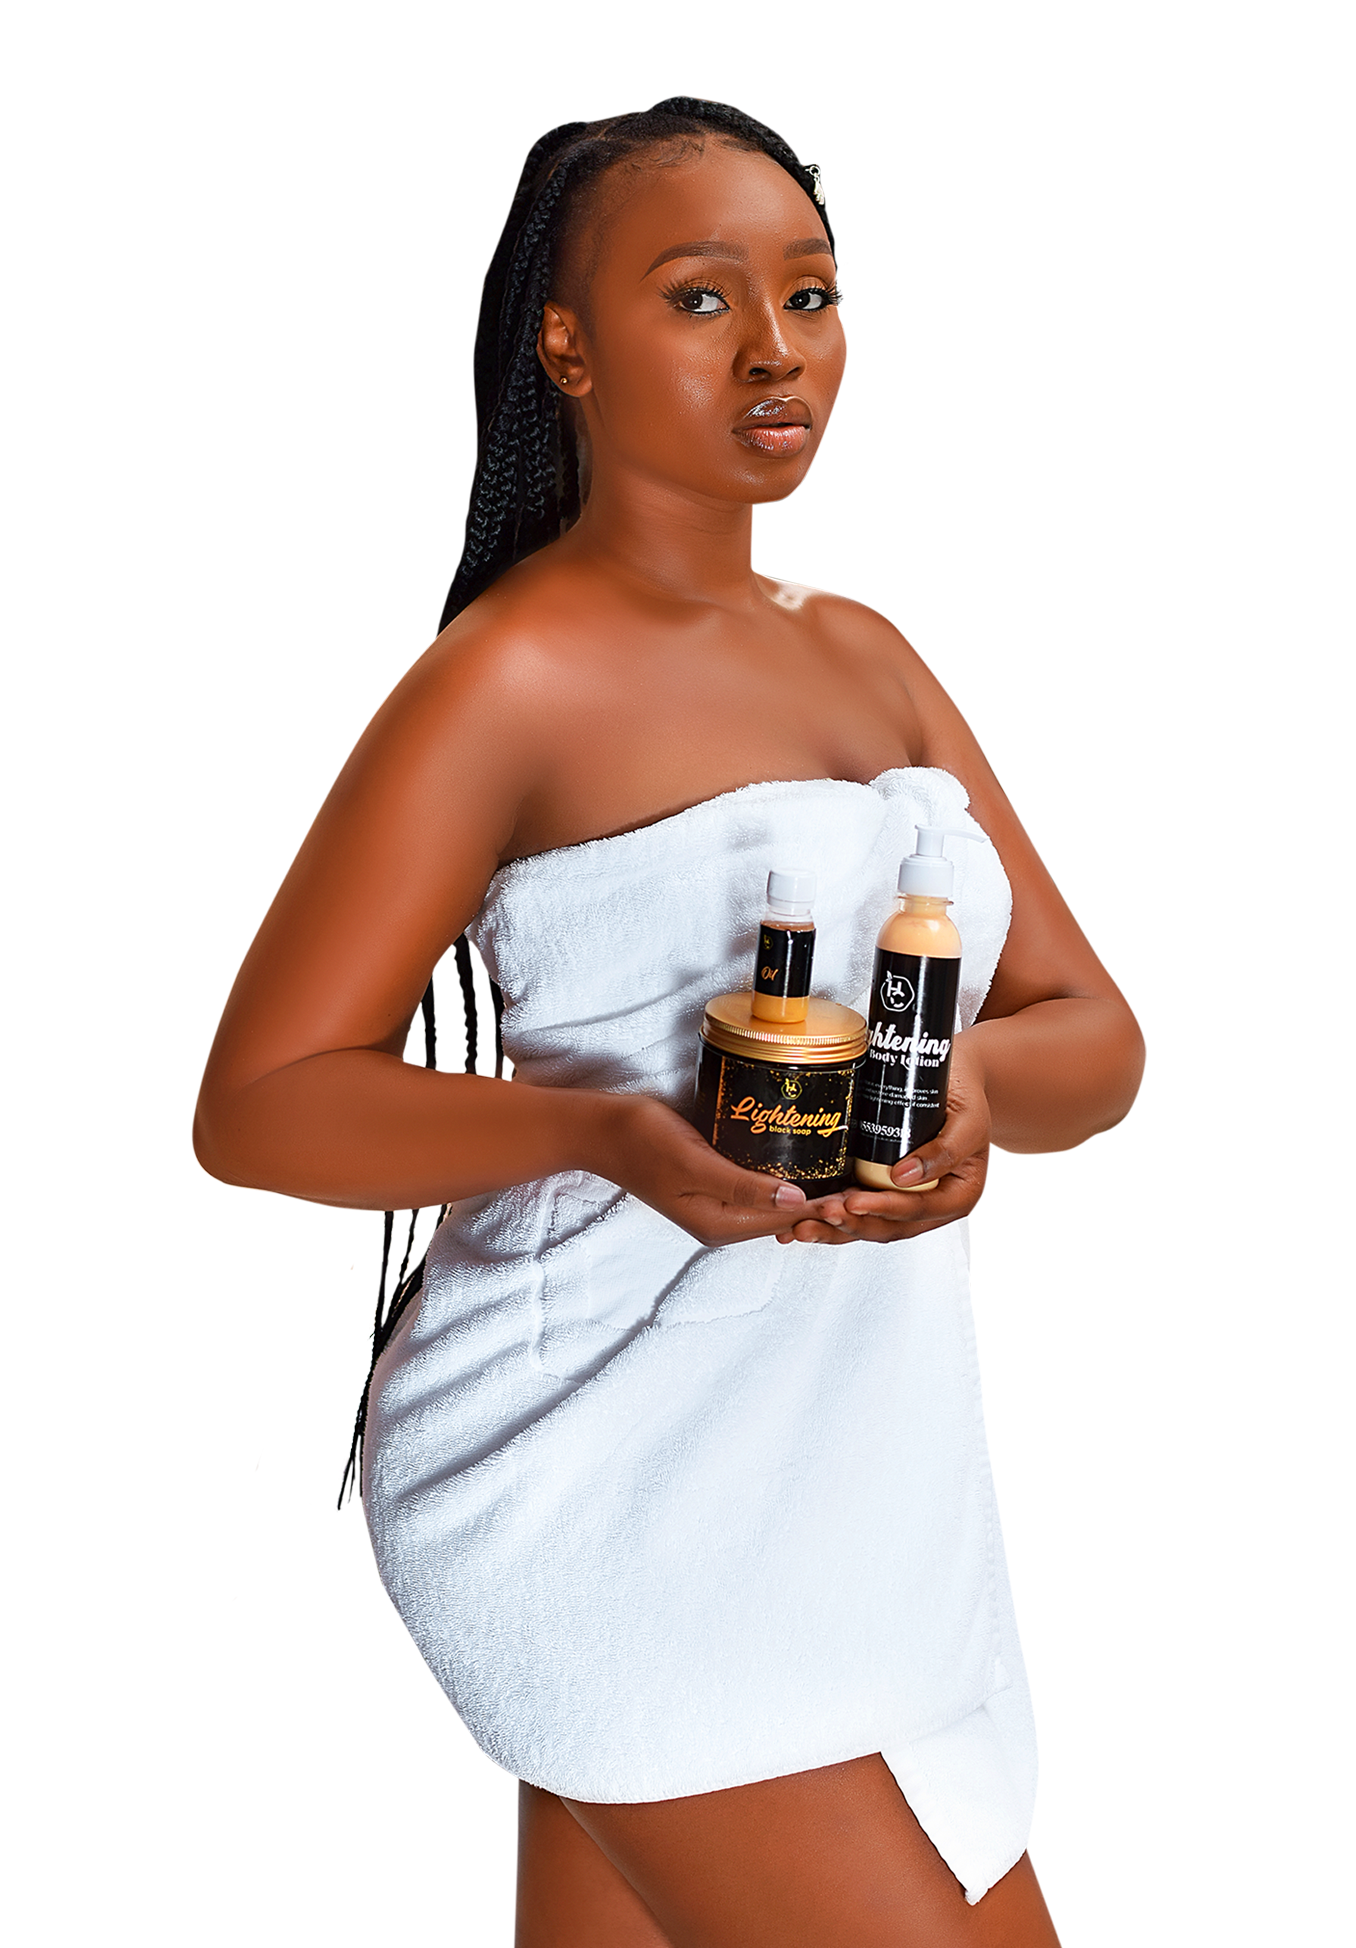
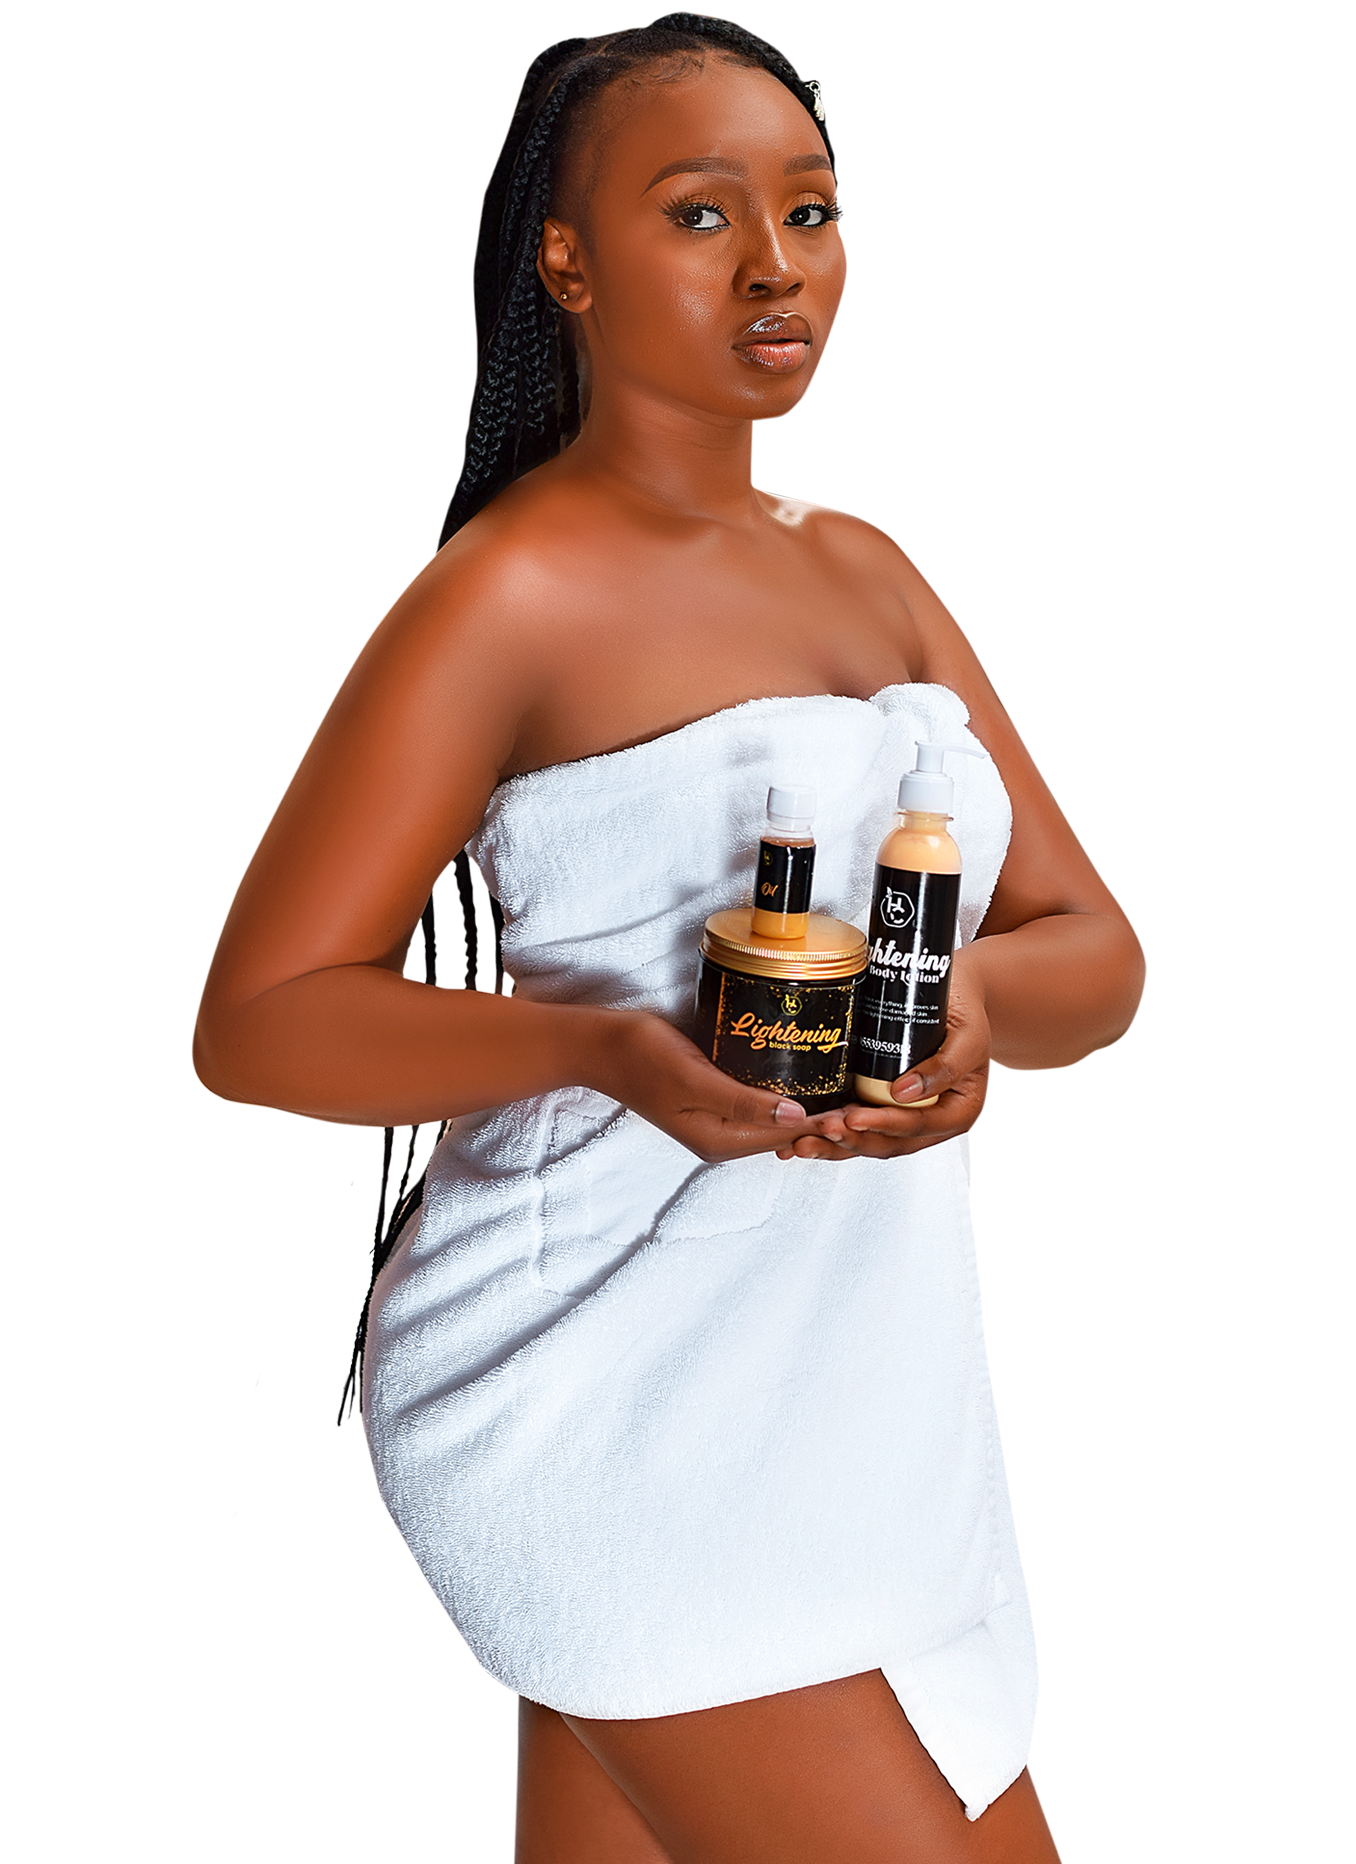
adjs

diff --git a/style.css b/style.css
@@ -173,9 +173,10 @@ img {
 /* Showcase */
 
 .showcase {
-    height: 90vh;
+    height: 95vh;
     position: relative;
     background-color: rgb(251, 205, 190);
+    overflow: visible;
 }
 
 .showcase-content {
@@ -186,10 +187,6 @@ img {
     height: 90%;
 }
 
-/* .showcase-content .grid {
-    border: 2px solid red;
-} 
-*/
 /* .showcase-text {
     border: 2px solid green;
 }  */
@@ -211,6 +208,7 @@ img {
     height: 100%;
     justify-self: center;
     align-self: flex-end;
+    /* border: 2px solid black; */
 }
 
 .showcase-image img {

diff --git a/index.html b/index.html
@@ -35,7 +35,7 @@
         <div class="showcase-content">
             <div class="container grid">
                 <div class="showcase-image">
-                    <img src="images/model-11.png" alt="model">
+                    <img src="images/model-4.png" alt="model">
                 </div>
 
                 <div class="showcase-text">
